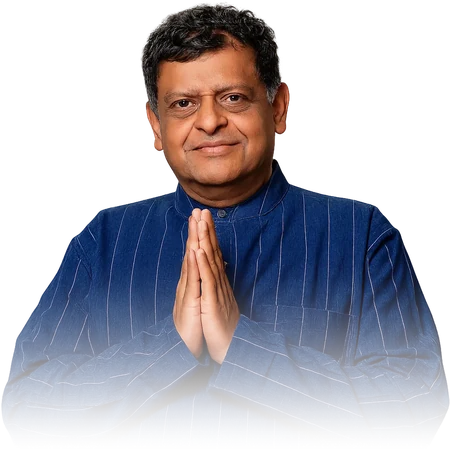
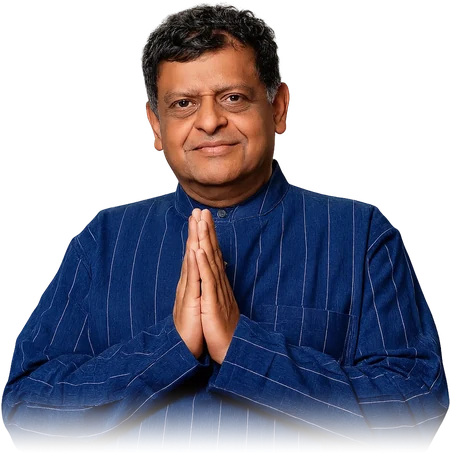
Add files via upload

diff --git a/style.css b/style.css
@@ -146,8 +146,8 @@ nav a:hover::after{transform:scaleX(1)}
   filter:blur(6px);
 }
 .wheel{
-  position:absolute;z-index:1;top:2%;left:50%;width:104%;height:auto;
-  transform:translateX(-50%);opacity:.28;animation:spin 240s linear infinite;
+  position:absolute;z-index:1;top:-2%;left:50%;width:96%;height:auto;
+  transform:translateX(-50%);opacity:.22;animation:spin 240s linear infinite;
 }
 @keyframes spin{to{transform:translateX(-50%) rotate(360deg)}}
 @keyframes rise{from{opacity:0;transform:translateY(16px)}to{opacity:1;transform:none}}
@@ -156,10 +156,10 @@ nav a:hover::after{transform:scaleX(1)}
   .portrait img{animation:none}
 }
 .portrait figcaption{
-  position:relative;z-index:4;text-align:center;margin:-8% 6% 0;
-  padding-top:18px;border-top:1.5px solid var(--faint);
+  position:relative;z-index:4;text-align:center;margin:0;padding-top:4px;
 }
-.portrait .nm{display:block;font-family:var(--serif);font-size:1.6rem;font-weight:500;color:var(--chalk);letter-spacing:-.01em}
+.portrait .nm{display:block;font-family:var(--serif);font-size:1.62rem;font-weight:500;
+  color:var(--chalk);letter-spacing:-.01em;line-height:1.2}
 .portrait .rl{display:block;font-size:0.75rem;letter-spacing:.13em;text-transform:uppercase;color:var(--amber);margin-top:7px}
 
 /* ---------- Trust — inline, typographic ---------- */
